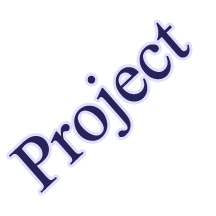
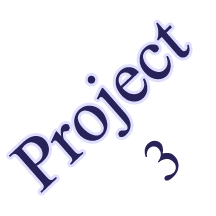
added project carousel

Changed region(s): [[0.6667, 0.6389, 0.8333, 0.8056], [0.75, 0.8056, 0.8056, 0.8333]]

diff --git a/script.js b/script.js
@@ -1,0 +1,69 @@
+class CarouselImg {
+	constructor (element) {
+		this.element = element;
+	}
+	
+	select () {
+		this.element.classList.add("content__projectImg--selected");
+	}
+	
+	deselect () {
+		this.element.classList.remove("content__projectImg--selected");
+	}
+}
+
+class CarouselButton {
+	constructor (element, parent) {
+		this.element = element;
+		this.carousel = parent;
+		this.imgs = parent.carouselImgs;
+		this.carouselItems = this.carousel.carouselImgs;
+		if(this.element.classList.contains("content__leftButton")){
+			this.element.addEventListener("click", () => {
+				this.moveLeft();
+			});
+		} else {
+			this.element.addEventListener("click", () => {
+				this.moveRight();
+			});
+		}
+	}
+	
+	moveLeft () {
+		this.carousel.getImgByIndex(this.carousel.activeIndex).deselect();
+		this.carousel.activeIndex--;
+		if(this.carousel.activeIndex < 0) this.carousel.activeIndex = 2;
+		this.carousel.getImgByIndex(this.carousel.activeIndex).select();
+	}
+	
+	moveRight () {
+		this.carousel.getImgByIndex(this.carousel.activeIndex).deselect();
+		this.carousel.activeIndex++;
+		if(this.carousel.activeIndex > 2) this.carousel.activeIndex = 0;
+		this.carousel.getImgByIndex(this.carousel.activeIndex).select();
+	}
+}
+
+class Carousel {
+	constructor (element) {
+		this.element = element;
+		this.carouselImgs = element.querySelectorAll(".content__projectImg");
+		this.carouselImgs = Array.from(this.carouselImgs).map(carouselImg => new CarouselImg(carouselImg));
+		this.leftButton = element.querySelector(".content__leftButton");
+		this.leftButton = new CarouselButton(this.leftButton, this);
+		this.rightButton = element.querySelector(".content__rightButton");
+		this.rightButton = new CarouselButton(this.rightButton, this);
+		this.activeIndex = 0;
+	}
+	
+	getImgByIndex (index) {
+		let returnimg;
+		this.carouselImgs.forEach((imgs) => {
+			if(imgs.element.dataset.imgnum == index) returnimg = imgs;
+		});
+		return returnimg;
+	}
+}
+
+let carousel = document.querySelector(".content__projects");
+carousel = new Carousel(carousel);

diff --git a/index.html b/index.html
@@ -4,6 +4,7 @@
     <title>Jessica Thomas</title>
     <!-- Here we reference our styles.css for our page styling -->
     <link rel="stylesheet" href="./stylesheet.css">
+	<script defer="defer" src="script.js"></script>
   </head>
   <body>
 	<div class="topBar">
@@ -26,9 +27,22 @@
 		<div id="projects" class="content__section">
 			<h1 class ="content__heading">Projects</h1>
 			<div class ="content__projects">
-				<img src="./img/project1.png" alt="Project 1"></img>
-				<img src="./img/project2.png" alt="Project 2"></img>
-				<img src="./img/project3.png" alt="Project 3"></img>
+				<svg class="content__leftButton" height="250" width="150"><polygon points="150,0 150,250 0,125" style="fill:#8088fc;" /></svg>
+				<div data-imgnum="0" class="content__projectImg content__projectImg--selected">
+					<img src="./img/project1.png" alt="Project 1"></img>
+				</div>
+				<div data-imgnum="1" class="content__projectImg">
+					<img src="./img/project2.png" alt="Project 2"></img>
+				</div>
+				<div data-imgnum="2" class="content__projectImg"div>
+					<img src="./img/project3.png" alt="Project 3"></img>
+				</div>
+				<svg class="content__rightButton" height="250" width="150"><polygon points="0,0 0,250 150,125" style="fill:#8088fc;" /></svg>
+			</div>
+			<div>
+				<div class="content__projectText content__projectText--selected" data-txtnum="0">This is allll about project 1</div>
+				<div class="content__projectText" data-txtnum="0">This is allll about project 2</div>
+				<div class="content__projectText" data-txtnum="0">This is allll about project 3</div>
 			</div>
 		</div>
 		<div id="contact" class="content__section">

diff --git a/stylesheet.css b/stylesheet.css
@@ -11,6 +11,10 @@ a:visited{
 	color: #271a51;
 }
 
+#contact{
+	margin-bottom: 5em;
+}
+
 .topBar{
 	position: fixed;
 	top: 0;
@@ -20,6 +24,7 @@ a:visited{
 	padding: 0.6em 0em 0.2em 0em;
 	height: 2em;
 	width: 100%;
+	font-size: 1.5em;
 }
 
 .content{
@@ -40,6 +45,7 @@ a:visited{
 	flex: 2;
 	text-align: center;
 	font-size: 3em;
+	margin-top: 1.5em;
 }
 
 .content__heading{
@@ -55,13 +61,48 @@ a:visited{
 .content__footer{
 	background: #b2a9d1;
 	text-align: center;
+	position: fixed;
+	bottom: 0;
+	width: 100%;
+}
+
+.content__projects{
+	display: flex;
+	justify-content: space-evenly;
+	
+}
+
+.content__leftButton{
+	float: left;
+}
+
+.content__rightButton{
+	float: right;
+}
+
+.content__projectImg{
+	display: none;
+	opacity: 0;
+	transition: opacity 1s, height 0;
+}
+	
+.content__projectImg--selected{
+	display: inline-block;
+	opacity: 1;
+	transition: opacity 1s, height 0 1s;
+	height: 0;
+}
+
+.content__projectText{
+	display: none;
+}
+
+.content__projectText--selected{
+	display: inline;
+	margin-top: 20em;
 }
 
 @media (min-width: 600px){
-	.content__projects{
-		display: flex;
-		justify-content: space-evenly;
-	}
 	.content__profile{
 		float: left;
 	}
